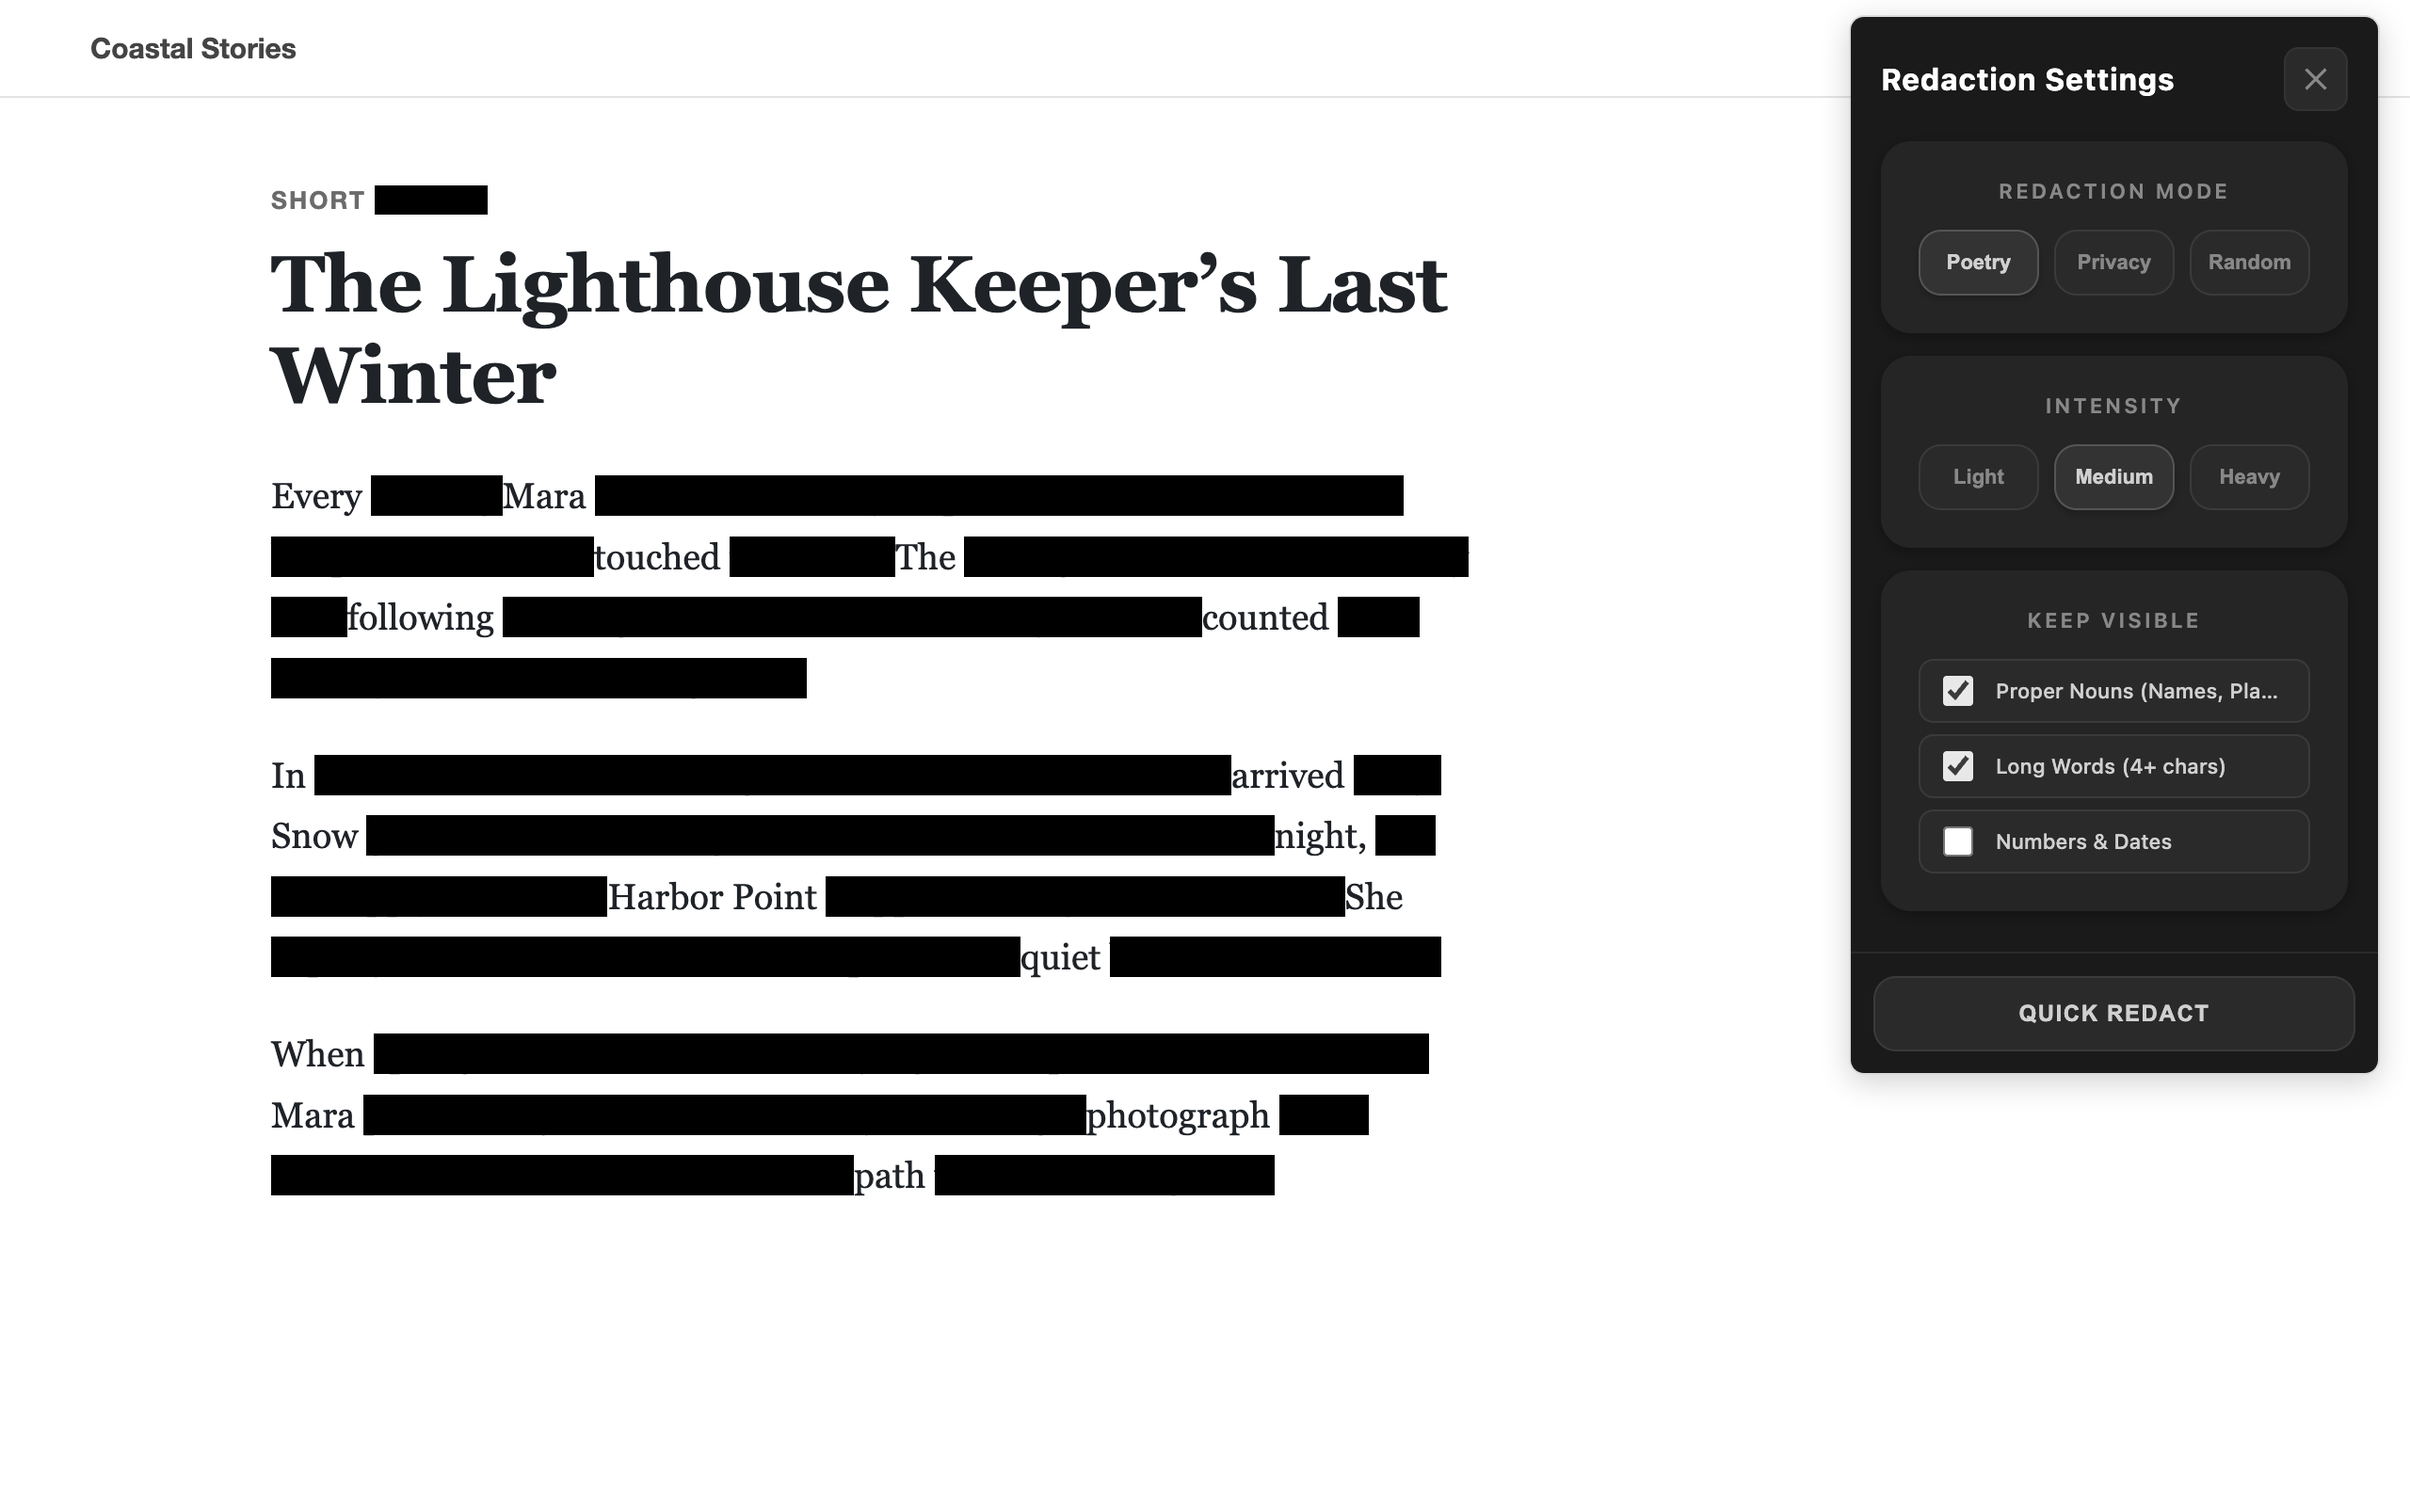
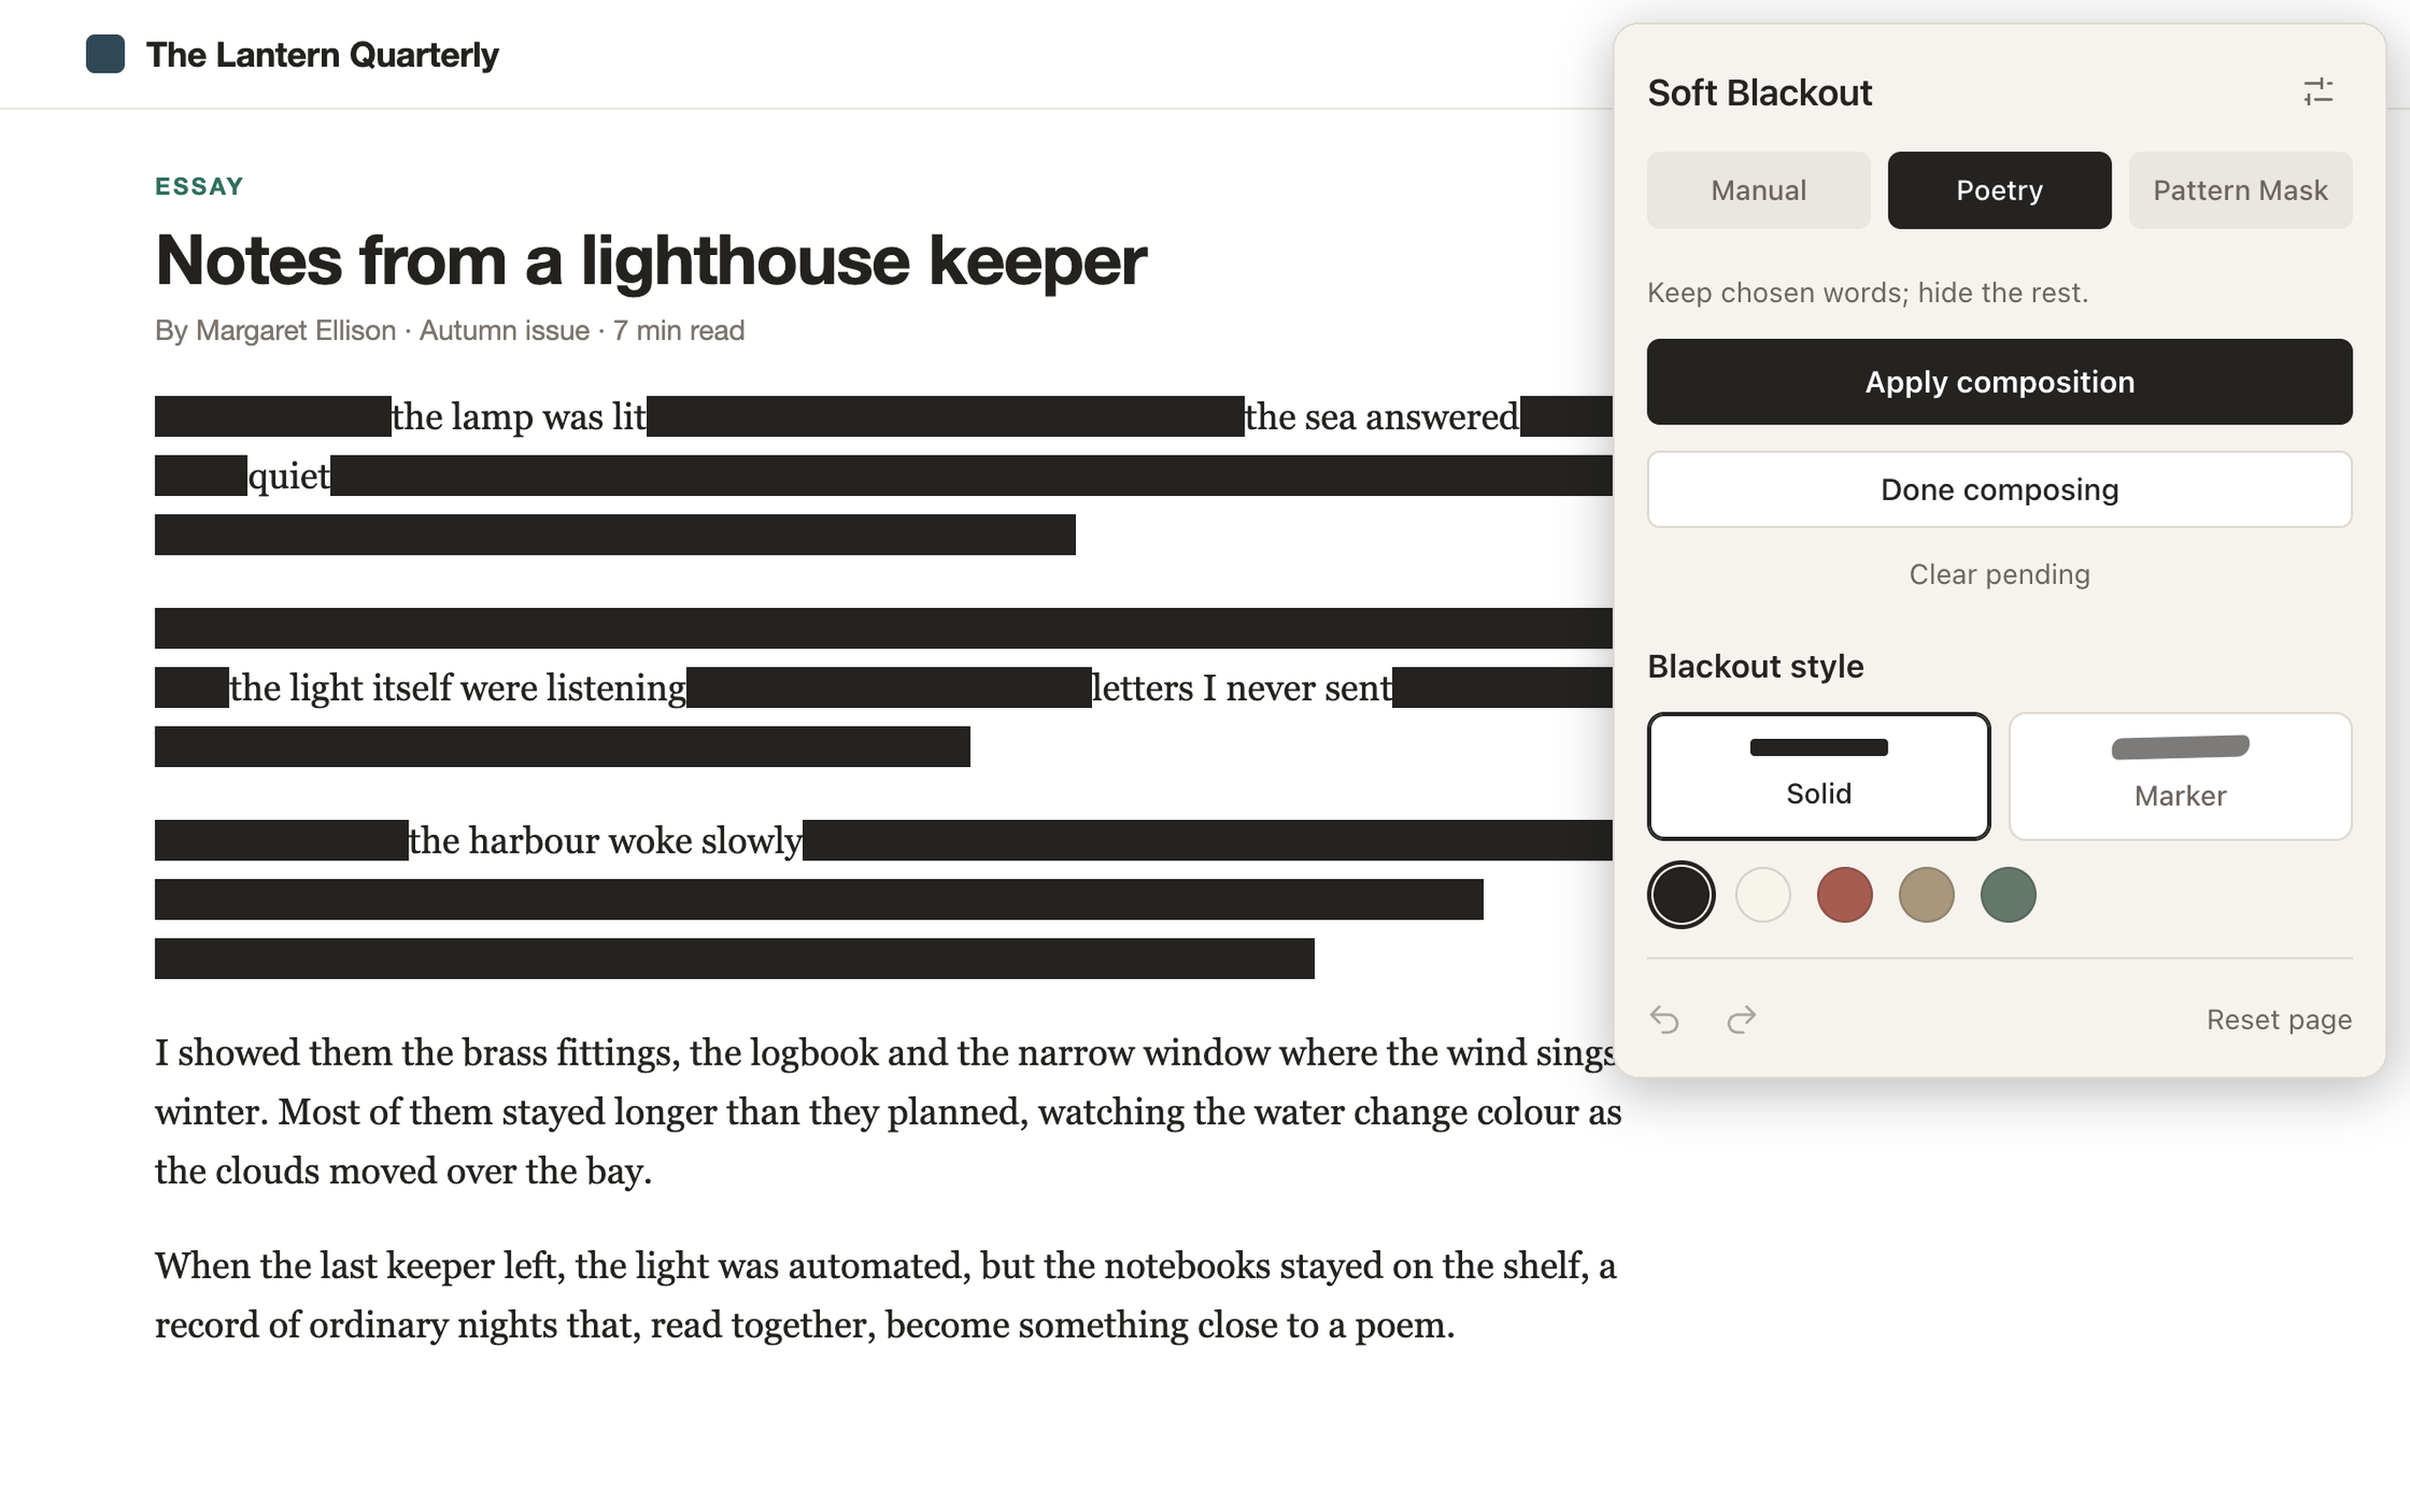
Updated

diff --git a/src/data/products/soft-blackout.ts b/src/data/products/soft-blackout.ts
@@ -2,13 +2,13 @@ import type { ProductPage } from '../../types/product';
 import { extensions } from '../extensions';
 import screenshot from '../../assets/products/soft-blackout-screenshot.png';
 
-// Content from the legacy /soft-blackout/ page, checked against the extension
-// source (v1.1.1). Dropped legacy claims: blur, custom styles and hidden modes
-// (redaction is always a solid black block), and "click" to redact elements
-// (only selected text is redacted). The screenshot combines two captures from
-// one session of the real extension on a sample article: the page after Quick
-// Redact in Poetry mode, and the popup's settings view, placed where Chrome
-// anchors it.
+// Content checked against the extension README, changelog and privacy policy
+// (v2.0.0). 2.0 replaced the 1.x redaction tool (Quick Redact, Blackout All,
+// Privacy and Random modes, intensity levels) with Manual, Poetry and Pattern
+// Mask, which only mask what you choose. The screenshot combines two real 2.0
+// captures from the same moment on the Store demo article (Soft Blackout
+// Store/source/captures): the page with a poem applied, and the popup in
+// Poetry mode, placed where Chrome anchors it.
 
 const extension = extensions.find((item) => item.name === 'Soft Blackout');
 if (!extension) throw new Error('Soft Blackout is missing from src/data/extensions.ts');
@@ -16,89 +16,91 @@ if (!extension) throw new Error('Soft Blackout is missing from src/data/extensio
 export const softBlackout: ProductPage = {
   extension,
   heading: { first: 'Soft', second: 'Blackout' },
-  lead: 'Control what stays visible.',
+  lead: 'Mask text on any page, your way.',
   description:
-    'Black out text on any web page, by hand or automatically, to hide private details, remove distractions or make blackout poetry. Everything runs locally in your browser.',
+    'Cover the text you select, compose blackout poems from articles, or mask email addresses, links and phone numbers. Masks are visual, local and only appear when you ask for them.',
   screenshot: {
     src: screenshot,
-    alt: 'Soft Blackout on a sample short story: most of the text is covered by solid black bars, leaving a few words and the names Mara and Harbor Point visible, beside the Redaction Settings popup with Poetry mode, Medium intensity, and Proper Nouns and Long Words kept visible.',
+    alt: 'Soft Blackout on a sample essay, Notes from a lighthouse keeper: the first paragraphs are covered by dark bars except for kept phrases such as “the lamp was lit” and “the sea answered”, beside the popup in Poetry mode with Apply composition, the Solid and Marker styles, five colours, Undo, Redo and Reset page.',
   },
   features: [
     {
-      title: 'Manual Mode',
+      title: 'Manual',
       description:
-        'Turn on Manual Mode and select text with the mouse to black it out. Links and buttons do not respond while it is on.',
+        'Select text on the page and choose Mask. Select inside a mask and choose Reveal to remove just that part, or turn on Mask on select to skip the confirmation.',
     },
     {
-      title: 'Quick Redact',
+      title: 'Poetry',
       description:
-        'Black out text automatically in one of three modes: Poetry leaves a scattered trail of words for blackout poetry, Privacy targets names and numbers, and Random hides words at random.',
+        'Choose the words to keep and apply the composition to hide the rest of each paragraph. Soft Blackout never picks words for you, and an applied poem can be edited.',
     },
     {
-      title: 'Intensity and filters',
+      title: 'Pattern Mask',
       description:
-        'Choose Light, Medium or Heavy intensity, and keep proper nouns, long words (4+ characters) or numbers and dates visible.',
+        'Scan the page for email addresses, URLs and, optionally, phone numbers, check the counts, then apply masks. Scanning never masks anything on its own.',
     },
     {
-      title: 'Blackout All and Reset',
+      title: 'Styles and colours',
       description:
-        'Cover all the text on the page in one click, or remove every blackout at once.',
+        'Solid covers text with a block of colour and Marker draws a thick band through it, in ink black, warm white, terracotta, taupe or sage. Changing either restyles every mask on the page.',
     },
     {
-      title: 'Undo, Redo and reveal',
+      title: 'Undo, Redo and Reset',
       description:
-        'Step back or forward through up to 50 changes, or double-click a black bar to reveal the text underneath.',
+        'One history covers all three modes, and Reset page removes every mask at once. The popup and on-page controls follow a System, Light or Dark theme.',
     },
   ],
   steps: [
     {
       title: 'Open Soft Blackout',
-      description: 'Open Soft Blackout from the toolbar on the page you want to edit.',
+      description:
+        'Click the Soft Blackout icon on the page you want to mask. It runs on a page only after you use it there.',
     },
     {
-      title: 'Black out text',
+      title: 'Choose a mode',
       description:
-        'Turn on Manual Mode and select text, or use Quick Redact with the mode, intensity and filters from the settings.',
+        'Pick Manual, Poetry or Pattern Mask, then a style and colour. Masks appear on the page right away.',
     },
     {
-      title: 'Adjust the result',
+      title: 'Adjust or reset',
       description:
-        'Undo, redo or double-click a bar to reveal it. Refreshing the page restores the original text.',
+        'Undo, Redo or Reset page at any time. Masks disappear when you reload the page or navigate away.',
     },
   ],
   requirements: [
     {
       title: 'Browser support',
-      description: 'Chrome and Chromium-based browsers, including Edge, Brave and Vivaldi.',
-    },
-    {
-      title: 'Languages',
-      description: 'English and Turkish, chosen automatically from your browser language.',
+      description: 'Chrome 116 or newer.',
     },
     {
       title: 'Visual only',
       description:
-        'Blackouts change only how the page looks in your browser. They are not saved, and the website itself is not changed.',
+        'Masks are drawn over the page and do not remove the original text. It stays in the page, and copying masked text copies the original, so do not rely on masks to redact sensitive information.',
+    },
+    {
+      title: 'Pattern matching',
+      description:
+        'Pattern Mask is deliberately conservative and is not full personal-data detection. Phone numbers without separators and other formats are not matched.',
     },
     {
       title: 'Supported pages',
       description:
-        'Soft Blackout does not run on browser pages such as chrome://, on local files or in the Chrome Web Store. Code blocks and editable fields are skipped.',
+        'Works on regular websites, but not on Chrome’s own pages, local files or in the Chrome Web Store. Text in form fields, buttons and frames is not masked.',
     },
   ],
   privacy: {
     description:
-      'Everything runs locally in your browser. Soft Blackout collects no personal data and sends nothing to external servers; it only stores whether Manual Mode is on for a tab.',
+      'Soft Blackout has no accounts, servers, analytics or tracking, and makes no network requests. Page text is processed in the tab and never stored or sent anywhere; only your settings are saved, on this device.',
     policyUrl: 'https://github.com/kaanddemir/soft-blackout/blob/main/PRIVACY_POLICY.md',
   },
-  closing: 'Install Soft Blackout and control what stays visible on any page.',
+  closing: 'Install Soft Blackout and choose what stays visible on any page.',
   seo: {
-    title: 'Soft Blackout | Browser Extension for Instant Visual Redaction',
+    title: 'Soft Blackout | Browser Extension for Visual Text Masking',
     description:
-      'Soft Blackout is a privacy-first browser extension that lets you obscure text directly in your browser. Redact sensitive content instantly.',
-    socialTitle: 'Soft Blackout | Visual Text Redaction',
+      'Mask selected text, compose blackout poems, and cover email addresses, links and phone numbers on any web page. Runs locally in Chrome.',
+    socialTitle: 'Soft Blackout | Manual, Poetry & Pattern Mask',
     socialDescription:
-      'A privacy-first browser extension that lets you obscure text directly in your browser. Redact sensitive content instantly — runs 100% locally.',
+      'Mask the text you choose, compose blackout poems, or mask contact details on any web page.',
   },
   ogImage: {
     path: '/assets/og/og-soft-blackout.png',

diff --git a/src/data/extensions.ts b/src/data/extensions.ts
@@ -4,7 +4,7 @@ import readscoreIcon from '../assets/extensions/readscore-icon.png';
 import softBlackoutIcon from '../assets/extensions/soft-blackout-icon.png';
 
 // Order and destinations carried over unchanged from the legacy homepage
-// (Browser Extensions). UX HeatGrid and ReadScore copy updated for 2.0.0.
+// (Browser Extensions). Copy updated for 2.0.0.
 export const extensions: Extension[] = [
   {
     name: 'UX HeatGrid',
@@ -40,13 +40,16 @@ export const extensions: Extension[] = [
   },
   {
     name: 'Soft Blackout',
-    tagline: 'Focused visual redaction',
+    tagline: 'Visual text masking',
     description:
-      'Add a visual blackout overlay to web pages for focused screen sharing and content control.',
+      'Mask the text you select, compose blackout poems, or mask email addresses, links and phone numbers.',
     icon: softBlackoutIcon,
     primaryLink: { label: 'Soft Blackout', href: '/soft-blackout/' },
-    // No longer listed on the Chrome Web Store, so there is no store link.
     links: [
+      {
+        label: 'Chrome Web Store',
+        href: 'https://chromewebstore.google.com/detail/soft-blackout/oeefplhfabbdadpicjbgbiapoadppkpo',
+      },
       { label: 'GitHub', href: 'https://github.com/kaanddemir/soft-blackout' },
       { label: 'Product Hunt', href: 'https://www.producthunt.com/products/soft-blackout' },
     ],
